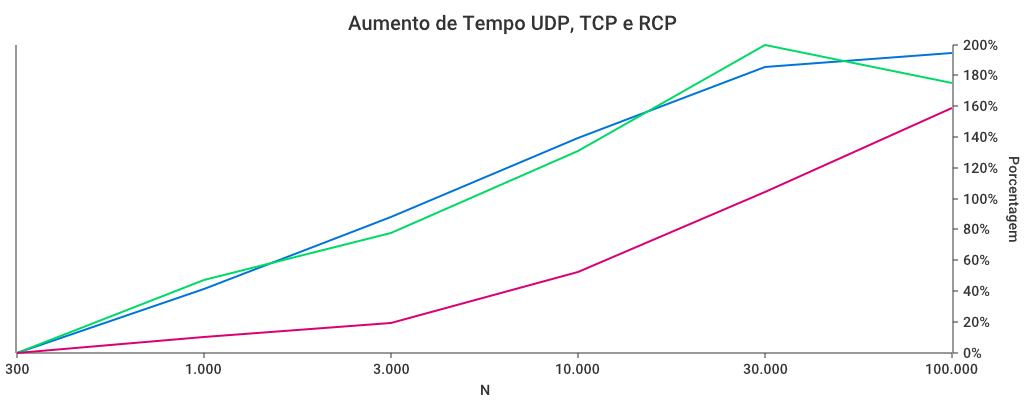
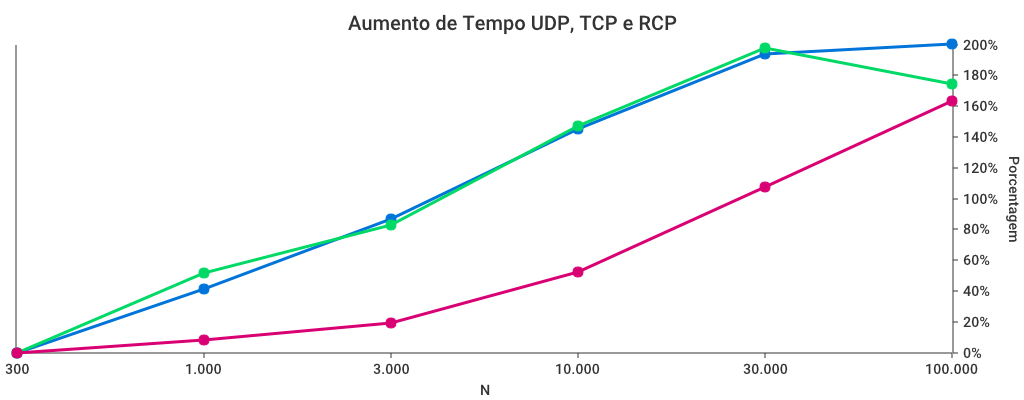
feat: Melhoria da aparância dos gráficos

diff --git a/exercicio4/graphs/graph.go b/exercicio4/graphs/graph.go
@@ -274,7 +274,16 @@ func makeDiffPercLineGraph(subj1 TestResult, subj2 TestResult, outputFile string
 			chart.ContinuousSeries{
 				Style: chart.Style{
 					StrokeColor: chart.DefaultColors[0],
-					StrokeWidth: 2,
+					StrokeWidth: 3,
+				},
+				XValues: xValues,
+				YValues: ratios,
+			},
+			chart.ContinuousSeries{
+				Style: chart.Style{
+					DotColor: chart.DefaultColors[0],
+					StrokeWidth: chart.Disabled,
+					DotWidth: 5,
 				},
 				XValues: xValues,
 				YValues: ratios,
@@ -341,7 +350,16 @@ func makeDiffLineGraph(subj1 TestResult, subj2 TestResult, outputFile string) {
 			chart.ContinuousSeries{
 				Style: chart.Style{
 					StrokeColor: chart.DefaultColors[0],
-					StrokeWidth: 2,
+					StrokeWidth: 3,
+				},
+				XValues: xValues,
+				YValues: differences,
+			},
+			chart.ContinuousSeries{
+				Style: chart.Style{
+					DotColor: chart.DefaultColors[0],
+					StrokeWidth: chart.Disabled,
+					DotWidth: 5,
 				},
 				XValues: xValues,
 				YValues: differences,
@@ -383,7 +401,17 @@ func makeGrowthLineGraph(tests []TestResult, outputFile string) {
 		lineSeries = append(lineSeries, chart.ContinuousSeries{
 			Style: chart.Style{
 				StrokeColor: chart.DefaultColors[i],
-				StrokeWidth: 2,
+				StrokeWidth: 3,
+			},
+			XValues: xValues,
+			YValues: growth,
+		})
+
+		lineSeries = append(lineSeries, chart.ContinuousSeries{
+			Style: chart.Style{
+				DotColor: chart.DefaultColors[i],
+				StrokeWidth: chart.Disabled,
+				DotWidth: 5,
 			},
 			XValues: xValues,
 			YValues: growth,
